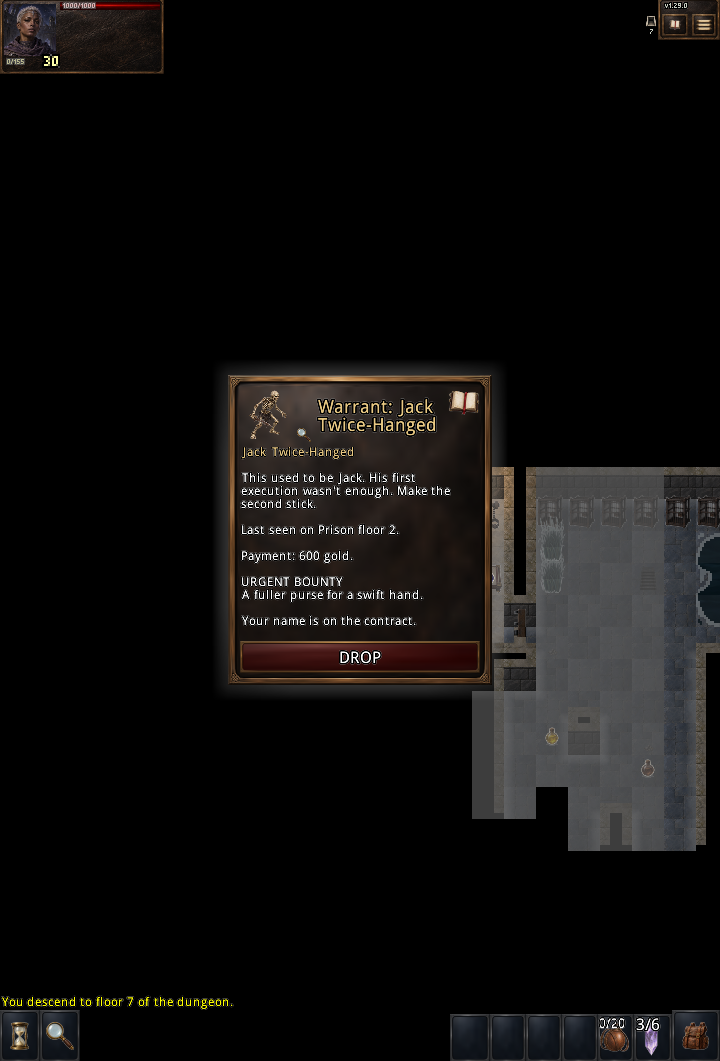
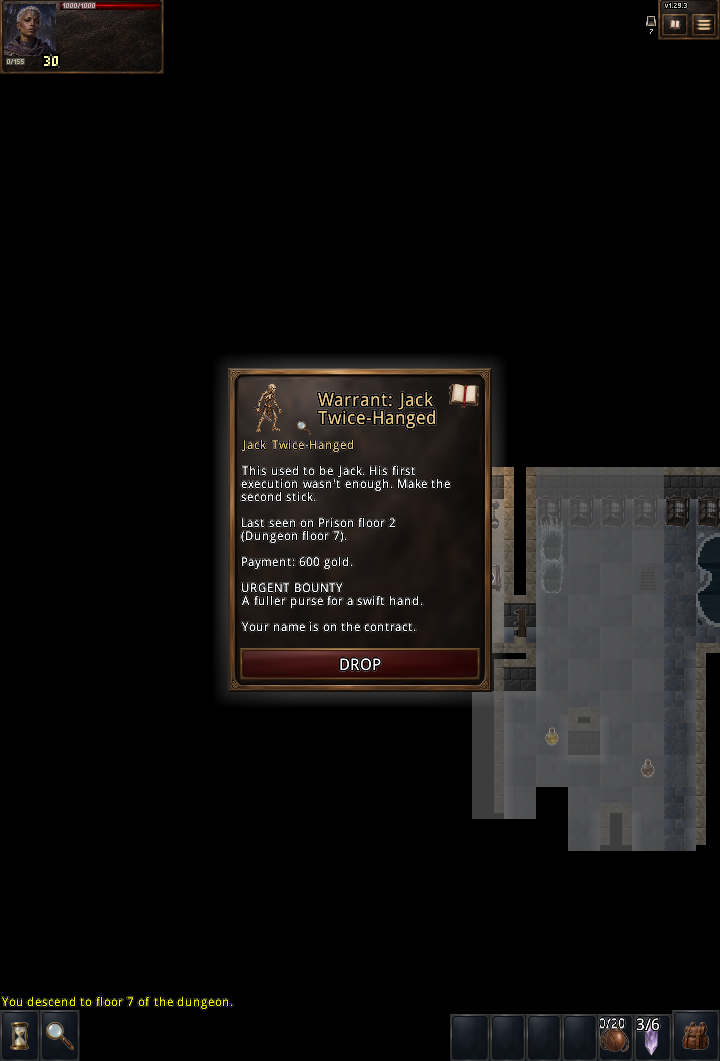
Clarify bounty locations with absolute dungeon floor numbers

Changed region(s): [[0.3056, 0.3421, 0.7028, 0.6532]]

diff --git a/core/src/main/java/com/shatteredpixel/shatteredpixeldungeon/windows/WndBountyContract.java b/core/src/main/java/com/shatteredpixel/shatteredpixeldungeon/windows/WndBountyContract.java
@@ -43,7 +43,7 @@ public class WndBountyContract extends Window {
 
         flavorTitle = ink(c.title(), 10, w, target.y + target.height() + 4);
         flavor = ink(flavor(c), 8, w, flavorTitle.bottom() + 4);
-        location = ink(Messages.get(Cole.class, "poster_location", c.floor - 5), 8, w, flavor.bottom() + 8);
+        location = ink(location(c), 8, w, flavor.bottom() + 8);
         reward = ink(c.index == 2 ? Messages.get(Cole.class, "coat_prize")
                 : Messages.get(Cole.class, "poster_bounty", c.payment), 11, w, location.bottom() + 8);
         float bottom = reward.bottom();
@@ -137,8 +137,12 @@ public class WndBountyContract extends Window {
                 : "flavor_" + (c.index == 2 ? "warden" : c.species));
     }
 
+    private static String location(BountyBoard.Contract c) {
+        return Messages.get(Cole.class, "poster_location", c.floor - 5, c.floor);
+    }
+
     public static String text(BountyBoard.Contract c) {
-        String text = Messages.get(Cole.class, "poster", c.alias(), flavor(c), c.floor - 5,
+        String text = Messages.get(Cole.class, "poster", c.alias(), flavor(c), location(c),
                 c.index == 2 ? Messages.get(Cole.class, "coat_prize") : Messages.get(Cole.class, "gold_prize", c.payment));
         if (c.index < 2) text += "\n\n" + Messages.get(Cole.class, "urgent") + "\n" + Messages.get(Cole.class, "swift");
         text += "\n\n" + Messages.get(Cole.class, c.returned ? "returned" : c.complete ? "complete" : c.accepted ? "accepted" : "offered");

diff --git a/core/src/main/java/com/shatteredpixel/shatteredpixeldungeon/ui/changelist/GrimhollowChanges.java b/core/src/main/java/com/shatteredpixel/shatteredpixeldungeon/ui/changelist/GrimhollowChanges.java
@@ -20,7 +20,9 @@ public final class GrimhollowChanges {
         release.addButton(new ChangeButton(icon.get(),title,text));
     }
     public static void addAllChanges(ArrayList<ChangeInfo> list) {
-        ChangeInfo r=release(list,"v1.29.2","Six faces worth remembering.");
+        ChangeInfo r=release(list,"v1.29.3","A clearer trail through the Prison.");
+        note(r,Icons.JOURNAL,"Bounty floor references","The Last seen line on Warrants, posters and bounty journal entries now includes the absolute dungeon floor beside the Prison floor number.");
+        r=release(list,"v1.29.2","Six faces worth remembering.");
         note(r,Icons.JOURNAL,"Named wanted creatures","Jack Twice-Hanged carries his noose and shackles; Nails guards a stolen payroll; Voss wears battered blue prison livery. The Widowmaker's broken machinery, the Bone Clerk's grim ledger and Morcant's red-and-gold armor each have their own paintings. Their posters and enlarged inspection images match the creatures you encounter.");
         r=release(list,"v1.29.1","A proper wanted notice.");
         note(r,Icons.JOURNAL,"Wanted posters","Bold WANTED lettering and the quarry's name sit above a larger centered portrait. Centered ink lists the contract's story, last sighting, bounty and urgency before its signature line and ornate worn rarity seal. Contract buttons remain accessible while scrolling.");

diff --git a/verification/ACCEPTANCE.md b/verification/ACCEPTANCE.md
@@ -1,3 +1,9 @@
+# Bounty floor references - v1.29.3
+
+- `gradlew.bat core:test core:smokeRun desktop:dist android:assembleDebug -PsmokeClass=ENCHANTER --no-daemon --console=plain`: **BUILD SUCCESSFUL in 1m 25s; Runs=10 failures=0**. Eight JUnit tests have zero failures/errors. The existing smoke run includes all Bounty scenarios, including ten generated offices and Warrant acceptance, save/load and rewards. No new harness or gameplay rules.
+- Existing native portrait Bounty review: **BOUNTY UI PASS; failures=0**. All eight notices, text/layout, acceptance, Warrant, journal, artwork, visibility and boss rewards pass. The actual Warrant capture `verification/interface/portrait/bounty-warrant.png` is visually reviewed and reads **Last seen on Prison floor 2 (Dungeon floor 7).** The shared location formatter also supplies posters, bounty journal entries and Playtest status. Existing numbering is unchanged.
+- `tools/package-windows.ps1` produces `desktop/build/windows/1.29.3/Grimhollow/Grimhollow.exe`; Android debug APK builds. Physical tablet review is **NOT RUN**. Artwork is unchanged, and test 45 remains abandoned. Full CI remains enabled, with the exact release result reported at delivery; unchanged gates are not claimed as locally rerun.
+
 # Named quarry paintings - v1.29.2
 
 - `gradlew.bat core:test core:smokeRun desktop:dist android:assembleDebug --no-daemon --console=plain`: **BUILD SUCCESSFUL in 2m 20s; Runs=30 failures=0**. Eight JUnit tests report zero failures/errors. No combat, quest or animation timing changes.

diff --git a/CHANGES.md b/CHANGES.md
@@ -1,3 +1,8 @@
+# Bounty floor references v1.29.3 - 2026-10-07
+
+- The shared Last seen line in Warrants, bounty posters and journal descriptions now includes the absolute dungeon floor: Last seen on Prison floor 3 (Dungeon floor 8). Existing numbering and quest destinations are unchanged; Prison floor 2 is Dungeon floor 7. Existing and new Warrants receive the clarification without a save migration.
+- Windows/Android builds, eight unit tests, the existing ten-seed Enchanter smoke run (including all Bounty scenarios) and native portrait Bounty UI checks pass. The actual Warrant is visually reviewed; physical tablet review remains NOT RUN. No art, balance, quest generation or rewards changed.
+
 # Named quarry paintings v1.29.2 - 2026-10-06
 
 - Added six original painted wanted skins with idle, movement, attack/casting and defeated poses. Jack has his noose and broken restraints; Nails a green hood and stolen payroll; Voss blue prison livery and heavy keys; the Widowmaker damaged copper machinery and a red eye; the Bone Clerk a grim ledger; Morcant enclosed armor and an oxblood officer's coat. Normal enemies and the actual Prison bosses retain their artwork.

diff --git a/README.md b/README.md
@@ -1,3 +1,9 @@
+# Bounty floor references - v1.29.3
+
+Warrants, posters and bounty journal entries now include the absolute dungeon floor in the Last seen line, alongside the existing Prison floor number. For example: Last seen on Prison floor 3 (Dungeon floor 8). Quest destinations and save data are unchanged.
+
+Windows: `desktop/build/windows/1.29.3/Grimhollow/Grimhollow.exe` (keep the entire folder). Android: `android/build/outputs/apk/debug/android-debug.apk`.
+
 # Named quarry paintings - v1.29.2
 
 All six non-boss wanted targets now have unique painted bodies and action poses: Jack Twice-Hanged, Nails the Cutpurse, Voss the Cellbreaker, the Widowmaker, the Bone Clerk and Warden Morcant. Their posters and enlarged inspection pictures come from the same original paintings. Ordinary enemies keep their current art; combat, rewards, animation timing and visibility rules are unchanged. Previously accepted targets receive their matching appearance when a saved floor loads.
